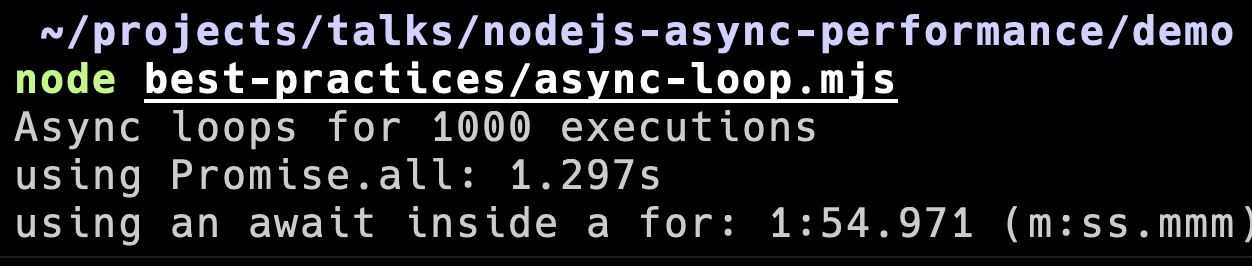
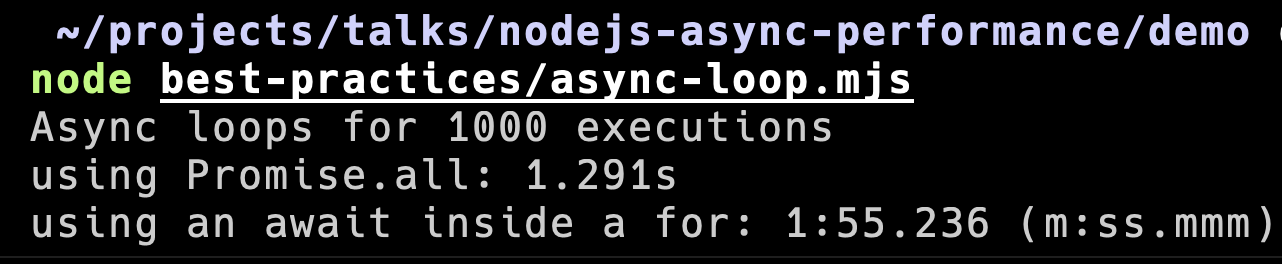
📝 update slides and essay

Changed region(s): [[0.0, 0.0303, 1.0, 0.5758], [0.0, 0.7576, 1.0, 1.0], [0.0, 0.5758, 0.5296, 0.7576]]

diff --git a/deck/components/GlobalStyle.js b/deck/components/GlobalStyle.js
@@ -2,7 +2,7 @@ const commonHeadingsStyle = {
   color: '#0e717f',
   margin: '0',
   padding: '24px 0',
-  textAlign: 'center'
+  textAlign: 'center',
 }
 
 export const GlobalStyle = {
@@ -14,7 +14,19 @@ export const GlobalStyle = {
       width: 'calc(100% - 20vw)',
     },
     p: {
-      textAlign: 'center'
+      textAlign: 'center',
+    },
+    ul: {
+      textAlign: 'left',
+      width: '80%'
+    },
+    ol: {
+      textAlign: 'left',
+      width: '80%'
+    },
+    li: {
+      paddingBottom: '2rem',
+      textAlign: 'left',
     },
     h1: {
       ...commonHeadingsStyle

diff --git a/deck/components/index.js b/deck/components/index.js
@@ -2,7 +2,6 @@ export * from "./Code";
 export * from "./FluidContainer";
 export * from "./Footer";
 export * from "./Row";
-export * from "./Layout";
 export * from "./LeanMind";
 export * from "./ProfileImage";
 export * from "./GlobalStyle";

diff --git a/essay.md b/essay.md
@@ -45,30 +45,47 @@ Tras este refactor vi ciertos patrones que quiero remarcar y mostrar:
 
 ### 1. Evita async innecesarios
 
-Los async cuando los ponemos en una función, estamos automáticamente haciendo que devuelva una promesa, y eso hay que gestionarlo de más. (_Demo async-await/useless-async_)
+```js
+export function randomNumber() {
+    return Math.random()
+}
 
-* Ten en cuenta que cada función asíncrona de por sí devuelve una promesa. Si devuelves una promesa JavaScript tiene que gestionarlo. Comentar ejemplo de jest o incluso hacer un benchmarking.
+export async function asyncRandomNumber() {
+    return Math.random()
+}
+```
+
+Estas dos funciones son idénticas a excepción de que la segunda es asíncrona. Sin ningún motivo, pero es asíncrona. Cada vez que usamos async en una función, estamos automáticamente haciendo que devuelva una promesa, y eso hay que gestionarlo de más. 
+
+Puede parecer una tontería, pero afecta. Hice un pequeño script para demostrar hasta qué punto esto afecta a nuestro performance. Lo que hace el script es ejecutar cada una de estas funciones por separado un millón de veces.
+
+(_Demo async-await/useless-async_)
+
+Como podemos ver, sólo por poner ese `async` hemos hecho que tarde casi seis veces más.
+
+Aplicándolo a la vida real, en una suite de test (bastante grande) reducimos un 40% el tiempo que tardaba en ejecutarse sólo quitando los async innecesarios que se nos habían quedado después de un refactor.
+
 
 ### 2. Evita los await dentro de los bucles.
 
 Imagina que tienes una tarea que hacer que sea en base a una lista de IDs tienes que recuperar información de una API. Por limitaciones técnicas no puedes pasarle a la API la lista de IDs, sino que tienes que hacer una llamada por cada ID. ¿Cuál es la primera idea que se nos viene a la cabeza? Probablemente un bucle, apesta a bucle. La implementación podría ser algo así:
 
-```javascript
+```js
 async function fetchUserListInfo(ids) {
   const values = []
-  for (id of ids) {
+  for (const id of ids) {
     values.push(await fetchUserInfo(id))
   }
   return values
 }
 ```
 
-Parece sencillo y además si lo probamos veremos que funciona. Consigue la información de todos los usuarios sin problemas. ¿Sin problemas? Ese await dentro del `for` fuerza a que se termine de completar cada promesa antes de procesar la siguiente. Esto significa que si de media la API tarda en responder 50ms y tenemos 100 IDS que procesar, tardaremos unos 5 segundos en realizar la tarea. No es que sea un drama, pero si hacemos este ligero cambio la cosa cambia bastante:
+Parece sencillo y además si lo probamos veremos que funciona. Consigue la información de todos los usuarios sin problemas. ¿Sin problemas? Ese await dentro del `for` fuerza a que se termine de completar cada promesa antes de procesar la siguiente. Esto significa que si de media la API tarda en responder 50ms y tenemos 100 IDS que procesar, tardaremos unos 5 segundos en realizar la tarea. No es que sea un drama, pero si implementamos esta otra solución la cosa cambia bastante:
 
-```javascript
+```js
 function fetchUserListInfo(ids) {
   const values = []
-  for (id of ids) {
+  for (const id of ids) {
     values.push(fetchUserInfo(id))
   }
   return Promise.all(values)
@@ -80,11 +97,13 @@ Aquí vemos hay tres sutiles diferencias:
 1. Dentro del for ya no hacemos un await
 1. Devolvemos un Promise.all en vez de los valores como hacíamos antes.
 
-La gran diferencia de esta solución es que dentro del bucle no resolvemos las promesas, sino que simplemente las añadimos a nuestro array en estado *Pending*. Cualquier función que devuelva una promesa la devuelve en este estado que hasta que no uses `await` o `.then` no estará *fulfilled* o *rejected*. Puedes verlo como el experimento del gato de Schrodinger, hasta que no abres la caja no sabes si el gato está vivo o muerto. A las promesas les pasa algo parecido, hasta que no las resuelves están en estado *pending* y una vez resueltas pueden estar *fulfilled*, que es cuando se ha resuelto satisfactoriamente, o *rejected* que es cuando ha habido algún error.
+La gran diferencia de esta solución es que dentro del bucle no resolvemos las promesas, sino que simplemente las añadimos a nuestro array pendiente de ser resueltas. Cualquier función que devuelva una promesa la devuelve en este estado que hasta que no uses `await` o `.then` no estará *fulfilled* o *rejected*. Puedes verlo como el experimento del gato de Schrodinger, hasta que no abres la caja no sabes si el gato está vivo o muerto. A las promesas les pasa algo parecido, hasta que no las resuelves están en estado *pending* y una vez resueltas pueden estar *fulfilled*, que es cuando se ha resuelto satisfactoriamente, o *rejected* que es cuando ha habido algún error.
 
 Volviendo a la solución, vemos que las promesas no se resuelven, sino que se almacenan directamente en estado *Pending* y la función al devolverlas, las resuelve todas *a la vez*. Esto hace que ahora la tarea se haga mucho más rápido, tardando lo que tarde en responderse la llamada a la API más lenta. 
 
-Tengo por aquí otra demo en la que usamos el mismo código, lo único que cambia es la tarea en sí, que lo único que hace es esperar un milisegundo y justo después devolvernos los 4 primeros caracteres del ID, simplemente por hacer algo. Lo que vamos a ver es cuanto tarda cada una de las soluciones ejecutando esta tarea para una lista de 100 IDS y lo va a hacer 1000 veces para que podamos ver si realmente hay una diferencia de performance o no.
+Voy a mostrar otra demo en la que usamos casi el mismo código, lo único que cambia es que en vez de llamar a una API, espera un milisegundo y devolver una string. Lo que vamos a ver es cuanto tarda cada una de las soluciones ejecutando esta tarea para una lista de 100 IDS y lo va a hacer 1000 veces para que podamos ver si realmente hay una diferencia de performance o no.
+
+Como vemos la diferencia es abismal. Para la misma tarea cuando usamos `Promise.all` tarda poco más de 1 segundo, pero cuando usamos `await` dentro del for tarda **casi 2 minutos**.
 
 ### 3. Usa Promise.all siempre que puedas
 
@@ -188,7 +207,7 @@ En esta otra demo hecho a correr estos dos trozos de código cien millones de ve
 
 ### 6. Haz caso de los warnings
 
-En la consola al ejecutar el proceso me salía esto:
+No sé si a alguien más le pasa que la mayoría del tiempo ignoras los warnings y sólo le das importancia cuando son errores. En la consola al ejecutar el proceso me salía esto:
     
 ```shell
 (node) warning: possible EventEmitter memory leak detected. 
@@ -196,7 +215,7 @@ En la consola al ejecutar el proceso me salía esto:
 Use emitter.setMaxListeners() to increase limit.
 ```
 
-Yo pensaba *Meh, es un warning*. En una primera instancia simplemente hice lo que me decía y aumenté los listeners. Sin embargo, hasta que no me dediqué a limpiar los listeners a medida que los usaba no noté la mejora de performance. No era un posible memory leak, era un memory leak en toda regla.
+Yo pensaba *Meh, es un warning*. En una primera instancia simplemente hice lo que me decía y aumenté los listeners sin darle mayor importancia. Sin embargo, el proceso todavía era demasiado lento así que investigué el warning. 
 
 El problema era que había event handlers que se estaban creando continuamente con cada conexión que se solicitaba al pool de conexiones de la base de datos, pero que no se estaban eliminando, siendo el causante del memory leak. Tras implementar el fix en el que cada vez que se devuelve una conexión al pool se limpian los event handlers asociados a la conexión vimos una mejoría en la performance, tardando 4 veces menos de lo que tardaba antes.  
 
